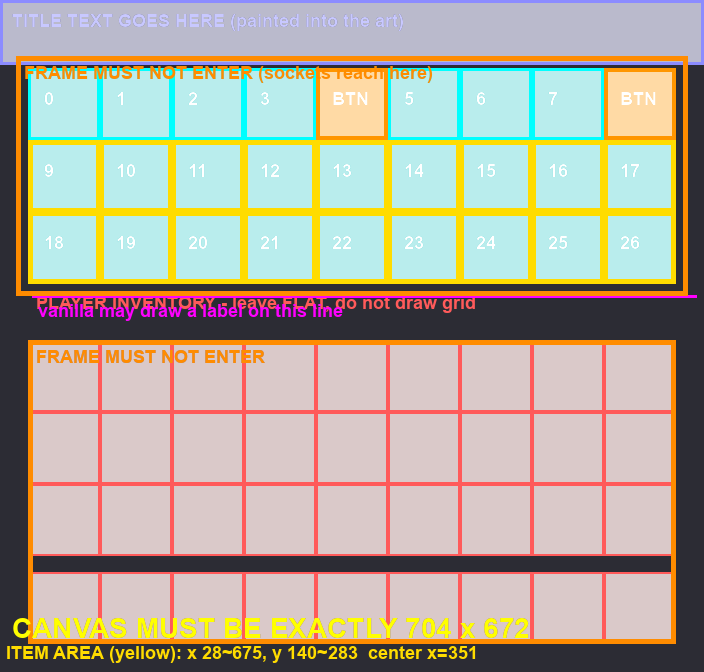
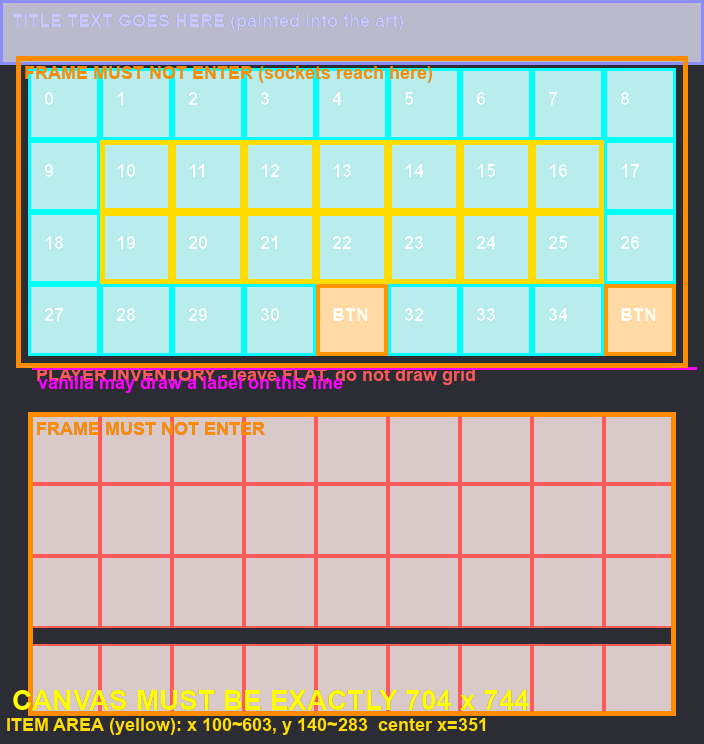
판매창 4행으로 확대 — 가이드/발주서 갱신
캔버스 704x744(한 행 큼). 투입칸은 안쪽 14칸(10~16, 19~25), 버튼은 아래 띠(31, 35).
구분선 요청 반영 — 헤더/좌판/조작띠/인벤 사이에 가늘고 은은한 가로선.

diff --git a/gui-forge/codex-brief-fish-shop.md b/gui-forge/codex-brief-fish-shop.md
@@ -11,9 +11,9 @@
 
 | 파일 | 크기 | 배경 | 내용 |
 |---|---|---|---|
-| `src/fish_shop/bg_source.png` | **704 × 672** | **불투명** | 프레임 · 헤더 · 좌판 |
+| `src/fish_shop/bg_source.png` | **704 × 744** | **불투명** | 프레임 · 헤더 · 좌판 · 구분선 |
 
-소켓/칸 구분선/버튼 아이콘은 **전부 우리가 코드로 얹는다.** 그리지 말 것.
+※ 낚시 창(704×672)보다 **한 행 크다.** 칸 구분선·버튼 아이콘은 우리가 코드로 얹으니 그리지 말 것.
 
 ---
 
@@ -26,12 +26,12 @@
    바닐라 상자 배경이 그대로 비친다.
 
 3. **주황 상자(FRAME MUST NOT ENTER) 안으로 프레임이 들어오면 안 된다.**
-   마크 슬롯 격자는 위치가 고정이라 협상이 안 된다. 좌우 프레임은 **한쪽 16px 이내**.
+   좌우 프레임은 **한쪽 16px 이내**. 마크 슬롯 격자 위치는 고정이라 협상이 안 된다.
 
 4. **빨강 칸(플레이어 인벤) 영역엔 격자를 그리지 말 것.** 민무늬 패널로.
 
-5. ★**제목 글자를 그리지 말 것.** 낚시 창과 달리 제목은 게임 폰트로 실시간 출력한다
-   (넣은 마리 수·금액이 바뀐다). 헤더는 **글자 없는 빈 명판**으로 남겨둘 것.
+5. ★**제목 글자를 그리지 말 것.** 제목은 게임 폰트로 실시간 출력한다
+   (넣은 마리 수·합계 금액이 계속 바뀐다). 헤더는 **글자 없는 빈 명판**으로.
 
 6. 좌판·버튼 자리는 **저대비**로. 위에 아이템이 올라간다.
 
@@ -42,16 +42,22 @@
 | 구역 | 슬롯 | 그릴 것 |
 |---|---|---|
 | 헤더 띠 | 0~8 | 가로로 긴 **빈 명판**(글자 없음) + 양끝 장식 |
-| └ 버튼 자리 | **4, 8** (주황) | 명판에 **버튼이 박힐 홈 2개**를 파둘 것. 4=전부 판매, 8=닫기 |
-| **좌판** | 9~26 (노랑) | x 28~675, y 140~283 을 덮는 **움푹 팬 판매대**. 젖은 나무·돌 좌판, 물기·비늘 자국 같은 생활감 |
+| **좌판** | 10~16, 19~25 (노랑) | **x 100~603, y 140~283** 을 덮는 움푹 팬 판매대 |
+| 좌판 양옆 기둥 | 9, 17, 18, 26 | 좌판을 감싸는 테두리/기둥 — 아이템이 안 올라가는 자리다 |
+| 조작 띠 | 27~35 | 아래쪽 버튼 바. **슬롯 31·35 자리에 버튼 홈 2개**를 파둘 것 |
 | 인벤 영역 | — | 민무늬 |
 
 ## 좌판이 핵심
 낚시 창은 "받침대 위 전리품"이지만 여긴 **생선을 늘어놓는 좌판**이다.
-- 위 두 행 전체가 하나의 **연속된 움푹한 면**으로 읽혀야 한다(칸마다 홈을 파지 말 것 —
-  18칸 구분선은 우리가 정확한 격자에 맞춰 얹는다).
+- 노란 영역 전체가 하나의 **연속된 움푹한 면**으로 읽혀야 한다.
+  칸마다 홈을 파지 말 것 — 14칸 구분선은 우리가 정확한 격자에 얹는다.
 - 가장자리에 낮은 턱을 둘러 "여기에 올려놓는 자리"임이 보이게.
-- 헤더 명판과 좌판은 **재질을 달리해** 조작부/작업면이 구분되게.
+- 젖은 나무·돌 좌판, 물기·비늘 자국 같은 생활감이 있으면 좋다.
+- 헤더·조작 띠와는 **재질을 달리해** 작업면과 조작부가 구분되게.
+
+## 구분선
+헤더 / 좌판 / 조작 띠 / 인벤 사이에 **가로 구분선**을 넣어 층이 나뉘어 보이게 할 것.
+가늘고 은은하게(청록 헤어라인 또는 얇은 금속 몰딩) — 굵으면 화면이 답답해진다.
 
 ---
 
